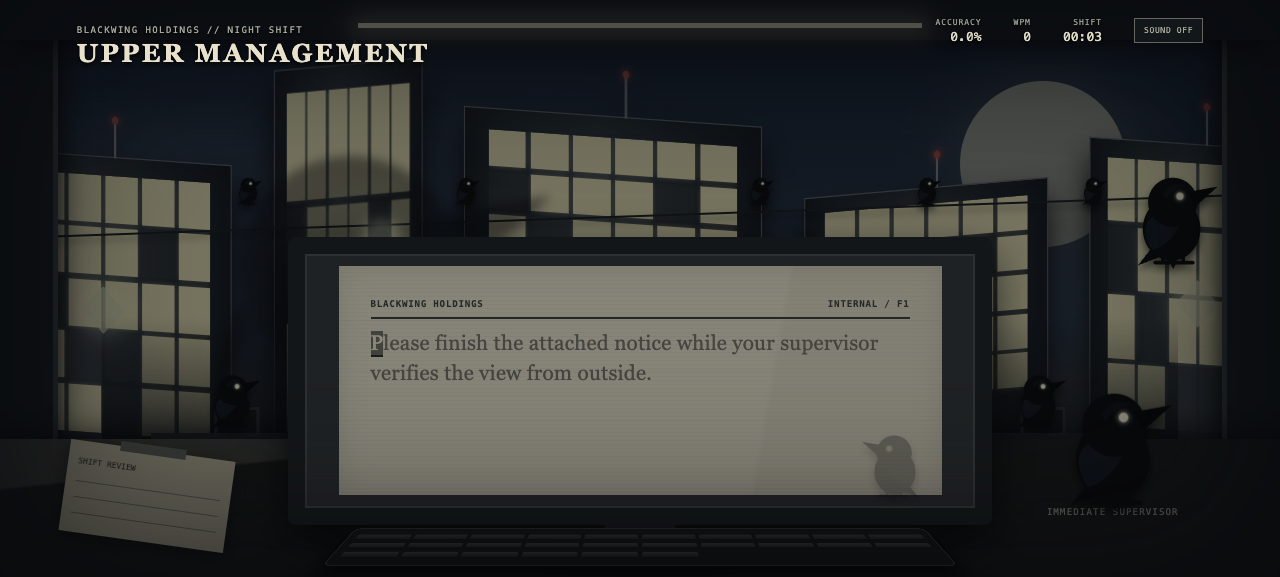
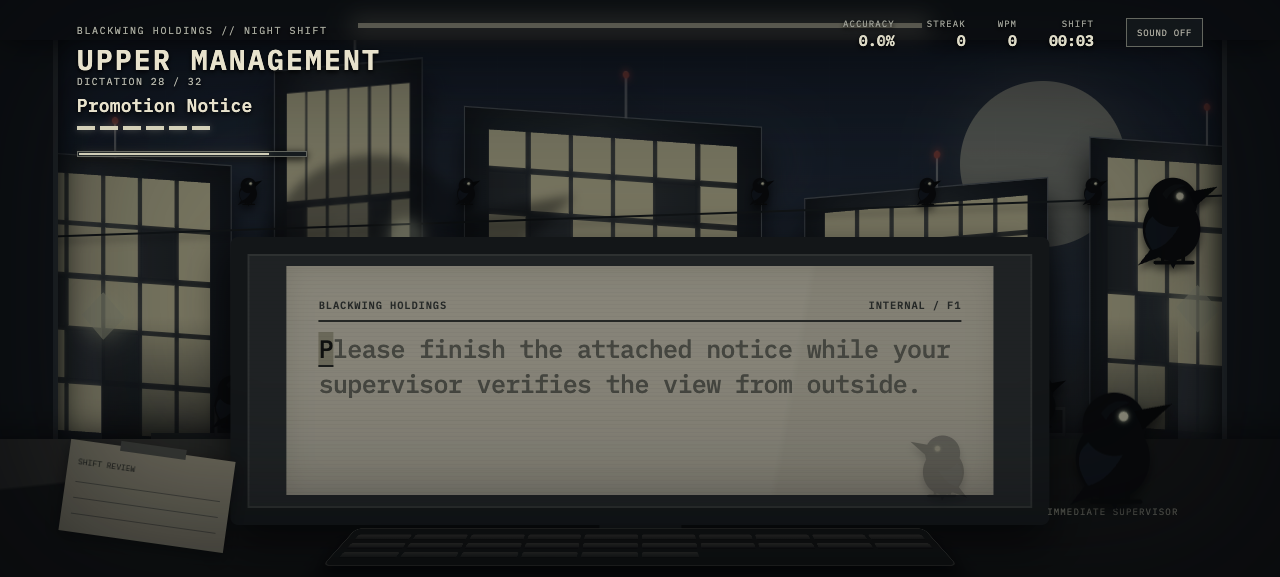
Make dictation more game-like and improve typography

diff --git a/typing/src/styles.css b/typing/src/styles.css
@@ -1,7 +1,7 @@
 :root {
   color: #e8e2cc;
   background: #090d12;
-  font-family: ui-monospace, 'SFMono-Regular', Consolas, monospace;
+  font-family: 'IBM Plex Mono', ui-monospace, monospace;
   font-synthesis: none;
   --paper: #ddd8c3;
   --ink: #242824;
@@ -73,7 +73,7 @@ button { font: inherit; }
 .frame-left::after { right: 0; }.frame-right::after { left: 0; }
 .window-raven-wrap { position: absolute; right: 4vw; top: 27%; z-index: 4; opacity: 0; transform: translateX(100px); transition: opacity .8s, transform .8s; }
 .window-raven { width: clamp(80px, 9vw, 145px); }
-.tap-mark { position: absolute; left: -20px; top: 45%; color: #c7c0a3; font: 10px ui-monospace, 'SFMono-Regular', Consolas, monospace; opacity: 0; }
+.tap-mark { position: absolute; left: -20px; top: 45%; color: #c7c0a3; font: 10px 'IBM Plex Mono', ui-monospace, monospace; opacity: 0; }
 .stage-3 .window-raven-wrap, .stage-4 .window-raven-wrap, .stage-5 .window-raven-wrap, .stage-6 .window-raven-wrap, .scrutiny-4 .window-raven-wrap, .scrutiny-5 .window-raven-wrap, .scrutiny-6 .window-raven-wrap, .scrutiny-7 .window-raven-wrap { opacity: 1; transform: translateX(0); }
 .scrutiny-4 .tap-mark, .scrutiny-5 .tap-mark { animation: tap 1s steps(2) 2; }
 @keyframes tap { 50% { opacity: 1; transform: translateX(-6px); } }
@@ -89,20 +89,20 @@ button { font: inherit; }
 @keyframes fluorescent { 48%, 50%, 52% { opacity: .83; } 49%, 51% { opacity: .25; } }
 .foreground { position: absolute; inset: 0; z-index: 5; transition: transform 4.5s cubic-bezier(.22,.78,.15,1), opacity 2.8s; }
 .desk-edge { position: absolute; inset: auto -5% -4% -5%; height: 28%; background: linear-gradient(174deg, #373733 0 18%, #171918 19% 100%); box-shadow: 0 -8px 30px #0009; }
-.monitor { position: absolute; left: 50%; bottom: 13%; width: min(720px, 55vw); height: min(360px, 43vh); transform: translateX(-50%); }
+.monitor { position: absolute; left: 50%; bottom: 12%; width: min(820px, 64vw); height: min(400px, 48vh); transform: translateX(-50%); }
 .monitor-screen { position: absolute; inset: 0; border: clamp(10px, 1.4vw, 20px) solid #1c2022; border-radius: 8px; background: #303537; box-shadow: 0 20px 45px #000c, inset 0 0 0 2px #4a4e4d; overflow: hidden; }
 .monitor-screen::after { content: ''; position: absolute; inset: 0; pointer-events: none; background: repeating-linear-gradient(0deg, #fff0 0 3px, #0000000d 4px); mix-blend-mode: multiply; }
 .monitor-neck { position: absolute; width: 10%; height: 15%; left: 45%; top: 100%; background: #1b1e1f; }.monitor-foot { position: absolute; width: 32%; height: 5%; left: 34%; top: 113%; background: #101213; border-radius: 50%; }
 .memo-card { position: absolute; inset: 5%; padding: clamp(18px, 2.5vw, 36px); color: var(--ink); background: var(--paper); background-image: linear-gradient(100deg, transparent 0 70%, #a9a58e22 71%), repeating-linear-gradient(0deg, transparent 0 24px, #76746112 25px); box-shadow: inset 0 0 28px #847f6944; overflow: hidden; }
-.memo-header { display: flex; justify-content: space-between; gap: 12px; color: #3c403d; font-size: clamp(8px, .72vw, 11px); font-weight: 600; letter-spacing: .08em; }
+.memo-header { display: flex; justify-content: space-between; gap: 12px; color: #3c403d; font-size: clamp(10px, .82vw, 13px); font-weight: 600; letter-spacing: .08em; }
 .memo-rule { height: 2px; margin: 8px 0 clamp(14px, 2vh, 28px); background: #3a3d39; }
-.memo-text { margin: 0; font-family: Georgia, 'Times New Roman', serif; font-size: clamp(18px, 1.62vw, 26px); line-height: 1.43; letter-spacing: .01em; }
+.memo-text { margin: 0; font-family: 'IBM Plex Mono', ui-monospace, monospace; font-size: clamp(22px, 1.95vw, 31px); font-weight: 500; line-height: 1.38; letter-spacing: -.025em; }
 .typed { color: #171a17; }.untyped { color: #6f7065; }
 .expected { position: relative; color: #151713; background: #ada98f; border-bottom: 2px solid #282b27; animation: cursor 1.05s steps(1) infinite; }
 .has-history .expected { animation: errorFlash .24s ease-out, cursor 1.05s .24s steps(1) infinite; }
 @keyframes cursor { 50% { background: #6a6b5e; color: #e7e1cb; } }
 @keyframes errorFlash { 0%, 70% { background: var(--red); color: #fff; box-shadow: 0 0 18px #bd2b2b; } }
-.signature-line { position: absolute; left: clamp(18px, 2.5vw, 36px); right: clamp(18px, 2.5vw, 36px); bottom: 8%; padding-top: 7px; border-top: 1px solid #77776b; color: #55584f; font-size: clamp(7px, .65vw, 10px); }
+.signature-line { position: absolute; left: clamp(18px, 2.5vw, 36px); right: clamp(18px, 2.5vw, 36px); bottom: 7%; padding-top: 7px; border-top: 1px solid #77776b; color: #55584f; font-size: clamp(9px, .72vw, 11px); }
 .training-stamp { position: absolute; right: 4%; bottom: 19%; color: #6e403a; border: 2px solid #6e403a; padding: 4px 7px; font-size: 9px; transform: rotate(-4deg); opacity: .8; }
 .blot-layer { position: absolute; inset: 26% 8% 18%; pointer-events: none; }
 .ink-blot { position: absolute; top: 38%; border-radius: 45% 55% 41% 59%; background: #393b35; opacity: .78; box-shadow: 3px 2px 0 -1px #393b35, -3px 1px 0 -1px #393b35; }
@@ -129,7 +129,7 @@ button { font: inherit; }
 .stage-5 .giant-raven, .stage-6 .giant-raven { opacity: .44; animation: flyby 12s linear infinite; }
 @keyframes flyby { to { transform: translateX(160vw) scale(1.7); } }
 .final-typist { position: absolute; left: 50%; bottom: 10%; width: 300px; transform: translateX(-50%) scale(.35); opacity: 0; transition: opacity 2s 1.6s, transform 3s 1.2s; }
-.final-typist .raven { width: 100%; }.final-wing { position: absolute; right: -20px; bottom: 12%; color: #eee8d3; font: 700 80px Georgia, 'Times New Roman', serif; opacity: 0; }
+.final-typist .raven { width: 100%; }.final-wing { position: absolute; right: -20px; bottom: 12%; color: #eee8d3; font: 700 80px 'IBM Plex Mono', monospace; opacity: 0; }
 .ending .supervisor-perch { animation: supervisorExit 2s .4s forwards; }
 .ending .foreground { transform: scale(.42) translateY(-16%); }
 .ending .monitor, .ending .keyboard, .ending .clipboard { opacity: .2; transition: opacity 1.5s 1s; }
@@ -140,29 +140,34 @@ button { font: inherit; }
 .vignette { position: absolute; inset: 0; z-index: 30; pointer-events: none; box-shadow: inset 0 0 12vw 3vw #05070aa8; }
 
 .hud { position: absolute; z-index: 40; left: 0; right: 0; top: 0; display: flex; justify-content: space-between; align-items: flex-start; padding: 18px 6vw; pointer-events: none; text-shadow: 0 2px 5px #000; }
-.eyebrow { color: #a7a99d; font-size: 9px; letter-spacing: .16em; }.brand-block h1 { margin: 2px 0; font: 600 clamp(18px, 2vw, 30px) Georgia, 'Times New Roman', serif; letter-spacing: .1em; }
+.eyebrow { color: #a7a99d; font-size: 10px; letter-spacing: .16em; }.brand-block h1 { margin: 3px 0; font: 600 clamp(21px, 2.2vw, 34px) 'IBM Plex Mono', monospace; letter-spacing: .075em; }
 .metrics { display: flex; gap: clamp(14px, 2.5vw, 35px); align-items: flex-start; }
-.metrics div { display: grid; gap: 2px; text-align: right; }.metrics span { color: #9b9d94; font-size: 8px; letter-spacing: .12em; }.metrics strong { color: #dfdcc8; font-size: 13px; font-weight: 500; }
-.audio-toggle { pointer-events: auto; color: #aaa99d; background: #151a1ebd; border: 1px solid #64675f; padding: 7px 9px; font-size: 8px; letter-spacing: .08em; cursor: pointer; }
-.stage-label { position: absolute; z-index: 40; left: 6vw; top: 14%; display: grid; gap: 4px; text-shadow: 0 2px 5px #000; }.stage-label span { color: #969990; font-size: 8px; letter-spacing: .14em; }.stage-label strong { max-width: 180px; font: 400 15px Georgia, 'Times New Roman', serif; letter-spacing: .04em; }
-.start-prompt { position: absolute; z-index: 45; left: 50%; bottom: 3%; transform: translateX(-50%); display: flex; align-items: center; gap: 10px; color: #c5c2b0; font-size: 10px; letter-spacing: .08em; animation: promptPulse 1.4s ease-in-out infinite; }.start-prompt i { width: 7px; height: 12px; background: #c5c2b0; }
+.metrics div { display: grid; gap: 2px; text-align: right; }.metrics span { color: #9b9d94; font-size: 9px; letter-spacing: .12em; }.metrics strong { color: #dfdcc8; font-size: 15px; font-weight: 600; }
+.audio-toggle { pointer-events: auto; color: #aaa99d; background: #151a1ebd; border: 1px solid #64675f; padding: 8px 10px; font-size: 9px; letter-spacing: .08em; cursor: pointer; }
+.stage-label { position: absolute; z-index: 40; left: 6vw; top: 14%; display: grid; gap: 6px; text-shadow: 0 2px 5px #000; }.stage-label span { color: #b2b3a8; font-size: 10px; letter-spacing: .14em; }.stage-label strong { max-width: 230px; font: 500 18px 'IBM Plex Mono', monospace; letter-spacing: .01em; }
+.stage-pips { display: flex; gap: 5px; margin-top: 3px; }.stage-pips i { width: 18px; height: 4px; background: #6b6d6680; }.stage-pips i.active { background: #d4d0b8; box-shadow: 0 0 7px #d4d0b855; }
+.shift-progress { position: absolute; z-index: 42; left: 6vw; top: calc(14% + 76px); width: 230px; height: 6px; padding: 1px; background: #161b1e; border: 1px solid #62655e; box-shadow: 0 2px 8px #000; }.shift-progress i { display: block; height: 100%; min-width: 2px; background: #d2cfb8; box-shadow: 0 0 8px #d2cfb877; transition: width .2s ease-out; }
+.game-feedback { position: absolute; z-index: 46; left: 50%; top: 12%; transform: translateX(-50%); padding: 7px 12px; color: #d9d6c3; background: #11161ae8; border: 1px solid #696b64; font-size: 10px; font-weight: 600; letter-spacing: .1em; pointer-events: none; white-space: nowrap; animation: gameFeedback 1.4s both; }.error-feedback { color: #ead7d0; border-color: #8e3a35; }.success-feedback { color: #dfe4c9; border-color: #7f8668; }
+@keyframes gameFeedback { 0% { opacity: 0; transform: translate(-50%, 8px); } 12%, 72% { opacity: 1; transform: translate(-50%, 0); } 100% { opacity: 0; transform: translate(-50%, -5px); } }
+.start-prompt { position: absolute; z-index: 45; left: 50%; bottom: 3%; transform: translateX(-50%); display: flex; align-items: center; gap: 10px; color: #c5c2b0; font-size: 12px; font-weight: 500; letter-spacing: .08em; animation: promptPulse 1.4s ease-in-out infinite; }.start-prompt i { width: 8px; height: 15px; background: #c5c2b0; }
 @keyframes promptPulse { 50% { opacity: .5; } }
-.ending-copy { position: absolute; z-index: 50; inset: 0; display: grid; place-content: center; gap: 10px; text-align: center; pointer-events: none; animation: endingTitle 5s both; }.ending-copy span { font-size: 9px; letter-spacing: .32em; }.ending-copy strong { font: 500 clamp(25px, 4vw, 58px) Georgia, 'Times New Roman', serif; letter-spacing: .08em; }
+.ending-copy { position: absolute; z-index: 50; inset: 0; display: grid; place-content: center; gap: 10px; text-align: center; pointer-events: none; animation: endingTitle 5s both; }.ending-copy span { font-size: 11px; letter-spacing: .32em; }.ending-copy strong { font: 600 clamp(25px, 4vw, 58px) 'IBM Plex Mono', monospace; letter-spacing: .04em; }
 @keyframes endingTitle { 0%, 55% { opacity: 0; } 70%, 90% { opacity: 1; } 100% { opacity: 0; } }
-.completion-card { position: absolute; z-index: 70; inset: 0; display: grid; place-content: center; justify-items: center; padding: 30px; text-align: center; background: #080b0edb; backdrop-filter: blur(10px); animation: fadeIn 1s both; }.completion-card span { color: #a6a596; font-size: 9px; letter-spacing: .3em; }.completion-card h2 { margin: 12px 0 7px; font: 500 clamp(28px, 5vw, 65px) Georgia, 'Times New Roman', serif; }.completion-card p { color: #aaa99d; font-size: 11px; }.completion-card button { margin-top: 18px; padding: 10px 14px; color: #dedbc9; background: transparent; border: 1px solid #77786e; font-size: 9px; letter-spacing: .12em; cursor: pointer; }
+.completion-card { position: absolute; z-index: 70; inset: 0; display: grid; place-content: center; justify-items: center; padding: 30px; text-align: center; background: #080b0edb; backdrop-filter: blur(10px); animation: fadeIn 1s both; }.completion-card span { color: #a6a596; font-size: 9px; letter-spacing: .3em; }.completion-card h2 { margin: 12px 0 7px; font: 600 clamp(28px, 5vw, 65px) 'IBM Plex Mono', monospace; }.completion-card p { color: #aaa99d; font-size: 13px; }.completion-card button { margin-top: 18px; padding: 10px 14px; color: #dedbc9; background: transparent; border: 1px solid #77786e; font-size: 9px; letter-spacing: .12em; cursor: pointer; }
 @keyframes fadeIn { from { opacity: 0; } }
 .debug-panel { position: absolute; z-index: 100; left: 10px; bottom: 10px; width: min(460px, calc(100vw - 20px)); color: #d7d7cd; background: #080b0eee; border: 1px solid #777; font-size: 10px; }.debug-panel summary { padding: 7px; cursor: pointer; }.debug-actions { display: flex; flex-wrap: wrap; gap: 4px; padding: 6px; }.debug-actions button { color: #ddd; background: #24292c; border: 1px solid #555; padding: 5px; cursor: pointer; }.debug-panel output { display: block; max-height: 130px; overflow: auto; padding: 6px; white-space: pre-wrap; color: #9fbc9d; }
 
 @media (max-width: 760px) {
   .hud { padding: 10px 14px; }.eyebrow, .brand-block h1 { display: none; }.metrics { width: 100%; justify-content: space-between; gap: 8px; }.metrics div { text-align: left; }
   .stage-label { top: 9%; left: 14px; }
-  .monitor { width: 88vw; height: 48vh; bottom: 17%; }.memo-card { inset: 3%; padding: 17px; }.memo-header span:last-child { display: none; }.memo-text { font-size: clamp(17px, 4.3vw, 21px); line-height: 1.35; }.signature-line { left: 17px; right: 17px; }
+  .monitor { width: 92vw; height: 51vh; bottom: 15%; }.memo-card { inset: 3%; padding: 17px; }.memo-header span:last-child { display: none; }.memo-text { font-size: clamp(20px, 5vw, 25px); line-height: 1.34; }.signature-line { left: 17px; right: 17px; }
   .supervisor-perch { right: -3%; bottom: 4%; width: 130px; }.supervisor-label { display: none; }.clipboard { display: none; }.keyboard { width: 74vw; bottom: 3%; }
   .skyline { left: -20%; right: -20%; }.rear-office { display: none; }.window-raven-wrap { right: 0; top: 14%; transform: scale(.7) translateX(100px); }.stage-3 .window-raven-wrap, .stage-4 .window-raven-wrap, .stage-5 .window-raven-wrap, .stage-6 .window-raven-wrap { transform: scale(.7); }
+  .shift-progress { left: 14px; right: 14px; top: 52px; }.stage-label { top: 11%; }.game-feedback { top: 15%; max-width: 92vw; overflow: hidden; text-overflow: ellipsis; font-size: 8px; }
 }
 
 @media (max-height: 650px) and (min-width: 761px) {
-  .monitor { height: 50vh; bottom: 9%; }.memo-rule { margin-bottom: 10px; }.signature-line { display: none; }.supervisor-perch { width: 130px; }.stage-label { display: none; }
+  .monitor { height: 50vh; bottom: 9%; }.memo-rule { margin-bottom: 10px; }.signature-line { display: none; }.supervisor-perch { width: 130px; }.stage-label { top: 13%; }.shift-progress { top: calc(13% + 76px); }
 }
 
 @media (prefers-reduced-motion: reduce) {

diff --git a/typing/src/game/content.ts b/typing/src/game/content.ts
@@ -24,40 +24,41 @@ const authored = (id: string, stage: number, text: string, effect = false): Memo
 })
 
 export const AUTHORED_MEMOS: Memo[] = [
-  authored('r1', 0, 'Please be advised that the western offices will remain dark for the duration of the migration.', true),
-  authored('r2', 0, 'Facilities has confirmed that movement behind the unlit windows is consistent with normal settling procedures.'),
+  authored('intro', 0, 'I am ready to take dictation.'),
+  authored('r1', 0, 'Please be advised: the western offices will remain dark for the duration of the migration.', true),
+  authored('r2', 0, 'The lights may fail. This does not indicate that movement behind the windows has stopped.'),
   authored('r3', 0, 'Staff assigned to the evening shift should disregard any footsteps arriving from floors above their own.'),
-  authored('r4', 0, 'Coffee service will continue until the machines learn which names no longer require cups.'),
+  authored('r4', 0, 'Coffee service will continue; the machines are learning which names no longer require cups.'),
   authored('r5', 0, 'Kindly leave completed reports face down so the ceiling cameras may review them without distraction.'),
 
   authored('p1', 1, 'Employees who cast unfamiliar shadows should report themselves to Human Resources.', true),
-  authored('p2', 1, 'A shadow traveling without its employee must still display valid identification near the elevators.'),
+  authored('p2', 1, 'A shadow traveling without its employee must display identification near the elevators. Do not assist it.'),
   authored('p3', 1, 'Please remember that separation from a silhouette does not constitute grounds for unscheduled leave.'),
   authored('p4', 1, 'Human Resources will retain all abandoned outlines until a suitable internal position becomes available.'),
   authored('p5', 1, 'Colleagues facing the wrong direction remain eligible for benefits, provided their work remains current.'),
 
   authored('b1', 2, 'Exterior management may enter through any available window.', true),
-  authored('b2', 2, 'The tapping heard along the glass indicates a request for access and should not be interpreted personally.'),
+  authored('b2', 2, 'Is someone tapping on the glass? Please wait for three taps before granting access.'),
   authored('b3', 2, 'Employees nearest the windows are authorized to lower their eyes while the visitors select a workspace.'),
   authored('b4', 2, 'Black feathers found in secure areas are company property and must be returned before sunrise.'),
   authored('b5', 2, 'Roof antennas are now reserved for supervisory personnel awaiting reassignment from the upper air.'),
 
   authored('o1', 3, 'All unoccupied desks are to be filled by members of Upper Management.', true),
   authored('o2', 3, 'New supervisors may decline name badges because their profiles are already familiar to the building.'),
-  authored('o3', 3, 'Should every manager turn at once, employees are expected to continue typing at a professional volume.'),
+  authored('o3', 3, 'If every manager turns at once, remember: remain calm; continue typing at a professional volume.'),
   authored('o4', 3, 'The conference room has reached capacity, although the chairs inside remain visibly empty.'),
   authored('o5', 3, 'Performance concerns should be whispered into the ventilation system during the designated listening period.'),
 
   authored('c1', 4, 'Effective immediately, the surrounding skyline will be considered part of the corporate campus.', true),
   authored('c2', 4, 'Neighboring towers will display the company mark after their windows have accepted the revised arrangement.'),
-  authored('c3', 4, 'Streets that now terminate inside the lobby have been approved as efficient commuter routes.'),
+  authored('c3', 4, 'Several streets now terminate inside the lobby. These are approved, efficient commuter routes.'),
   authored('c4', 4, 'Upper floors may extend beyond structural limits when additional oversight is required by regional leadership.'),
   authored('c5', 4, 'The large shape crossing between buildings is conducting an audit and does not require an escort.'),
   authored('c6', 4, 'City lights will remain synchronized with the blinking schedule issued by this office.'),
 
   authored('f1', 5, 'Please finish the attached notice while your supervisor verifies the view from outside.', true),
   authored('f2', 5, 'Your workstation, memories, and remaining lunch have been transferred to the management account.'),
-  authored('f3', 5, 'No further action is required from the employee previously seated at this desk.'),
+  authored('f3', 5, 'No further action is required from the employee previously seated at this desk. Remain seated.'),
   authored('f4', 5, 'The night shift thanks you for maintaining exceptional composure during the occupancy change.'),
   authored('final', 5, 'Your successful transition into management has been approved.'),
 ]

diff --git a/typing/src/App.tsx b/typing/src/App.tsx
@@ -1,7 +1,7 @@
 import { useEffect, useMemo, useReducer, useRef, useState } from 'react'
 import { DebugPanel } from './components/DebugPanel'
 import { Scene } from './components/Scene'
-import { STAGE_NAMES } from './game/content'
+import { AUTHORED_MEMOS, STAGE_NAMES } from './game/content'
 import { OfficeAudio } from './game/audio'
 import { accuracy, createGameState, gameReducer, type GameState, wpm } from './game/engine'
 
@@ -90,6 +90,10 @@ export default function App() {
   const elapsed = state.startedAt ? (state.finishedAt ?? now) - state.startedAt : 0
   const accuracyValue = accuracy(state)
   const titleStage = Math.min(5, state.current.stage)
+  const memoFraction = state.current.kind === 'practice'
+    ? state.authoredIndex / AUTHORED_MEMOS.length
+    : (state.authoredIndex + state.charIndex / state.current.text.length) / AUTHORED_MEMOS.length
+  const progress = Math.min(100, memoFraction * 100)
 
   const toggleAudio = () => {
     const next = !audioEnabled
@@ -108,6 +112,7 @@ export default function App() {
         </div>
         <div className="metrics" aria-label="Typing metrics">
           <div><span>ACCURACY</span><strong>{accuracyValue.toFixed(1)}%</strong></div>
+          <div><span>STREAK</span><strong>{state.streak}</strong></div>
           <div><span>WPM</span><strong>{Math.round(wpm(state, now))}</strong></div>
           <div><span>SHIFT</span><strong data-testid="timer">{formatTime(elapsed)}</strong></div>
           <button className="audio-toggle" onClick={toggleAudio} aria-label={`${audioEnabled ? 'Mute' : 'Enable'} office ambience`}>
@@ -116,9 +121,25 @@ export default function App() {
         </div>
       </header>
       <aside className="stage-label">
-        <span>MEMORANDUM {String(state.authoredIndex + 1).padStart(2, '0')}</span>
+        <span>DICTATION {String(state.authoredIndex + 1).padStart(2, '0')} / {String(AUTHORED_MEMOS.length).padStart(2, '0')}</span>
         <strong>{STAGE_NAMES[titleStage]}</strong>
+        <div className="stage-pips" aria-label={`Section ${titleStage + 1} of 6`}>
+          {STAGE_NAMES.map((name, index) => <i key={name} className={index <= titleStage ? 'active' : ''} />)}
+        </div>
       </aside>
+      <div className="shift-progress" aria-label={`${Math.round(progress)}% of dictation complete`}>
+        <i style={{ width: `${progress}%` }} />
+      </div>
+      {state.currentMistakes > 0 && state.phase === 'playing' && (
+        <div className="game-feedback error-feedback" key={`error-${state.errorPulse}`}>
+          PATTERN LOGGED // REVIEW SCHEDULED
+        </div>
+      )}
+      {state.phase === 'transition' && (
+        <div className="game-feedback success-feedback" key={`success-${state.completionPulse}`}>
+          MEMO ACCEPTED {state.currentMistakes === 0 ? `// CLEAN STREAK ${state.streak}` : ''}
+        </div>
+      )}
       {!state.startedAt && state.phase === 'playing' && (
         <div className="start-prompt"><span>Begin typing the memorandum.</span><i /></div>
       )}

diff --git a/typing/src/game/engine.ts b/typing/src/game/engine.ts
@@ -19,6 +19,8 @@ export type GameState = {
   attempts: number
   mistakes: number
   currentMistakes: number
+  streak: number
+  bestStreak: number
   scrutiny: number
   enactedStage: number
   startedAt: number | null
@@ -52,6 +54,8 @@ export function createGameState(): GameState {
     attempts: 0,
     mistakes: 0,
     currentMistakes: 0,
+    streak: 0,
+    bestStreak: 0,
     scrutiny: 0,
     enactedStage: 0,
     startedAt: null,
@@ -147,6 +151,7 @@ function registerMistake(state: GameState, now: number): GameState {
     attempts: state.attempts + 1,
     mistakes: mistakeNumber,
     currentMistakes: state.currentMistakes + 1,
+    streak: 0,
     scrutiny: Math.min(7, Math.max(state.scrutiny, Math.ceil(mistakeNumber / 2))),
     weaknesses: addWeaknesses(state.weaknesses, weaknessKeys(state.current.text, state.charIndex)),
     blots: [
@@ -170,11 +175,14 @@ function typeKey(state: GameState, key: string, now: number): GameState {
   if (key !== expected) return registerMistake(state, now)
 
   const nextIndex = state.charIndex + 1
+  const streak = state.streak + 1
   const progressed = {
     ...state,
     startedAt: state.startedAt ?? now,
     attempts: state.attempts + 1,
     correct: state.correct + 1,
+    streak,
+    bestStreak: Math.max(state.bestStreak, streak),
     charIndex: nextIndex,
   }
 

diff --git a/typing/src/game/engine.test.ts b/typing/src/game/engine.test.ts
@@ -17,6 +17,12 @@ describe('typing engine', () => {
     const correct = gameReducer(wrong, { type: 'key', key: initial.current.text[0]!, now: 200 })
     expect(correct.charIndex).toBe(1)
     expect(correct.correct).toBe(1)
+    expect(correct.streak).toBe(1)
+    expect(correct.bestStreak).toBe(1)
+
+    const reset = gameReducer(correct, { type: 'key', key: 'x', now: 300 })
+    expect(reset.streak).toBe(0)
+    expect(reset.bestStreak).toBe(1)
   })
 
   it('records weaknesses and increases scrutiny after mistakes', () => {

diff --git a/typing/src/main.tsx b/typing/src/main.tsx
@@ -1,5 +1,8 @@
 import { StrictMode } from 'react'
 import { createRoot } from 'react-dom/client'
+import '@fontsource/ibm-plex-mono/latin-400.css'
+import '@fontsource/ibm-plex-mono/latin-500.css'
+import '@fontsource/ibm-plex-mono/latin-600.css'
 import App from './App'
 import './styles.css'
 
